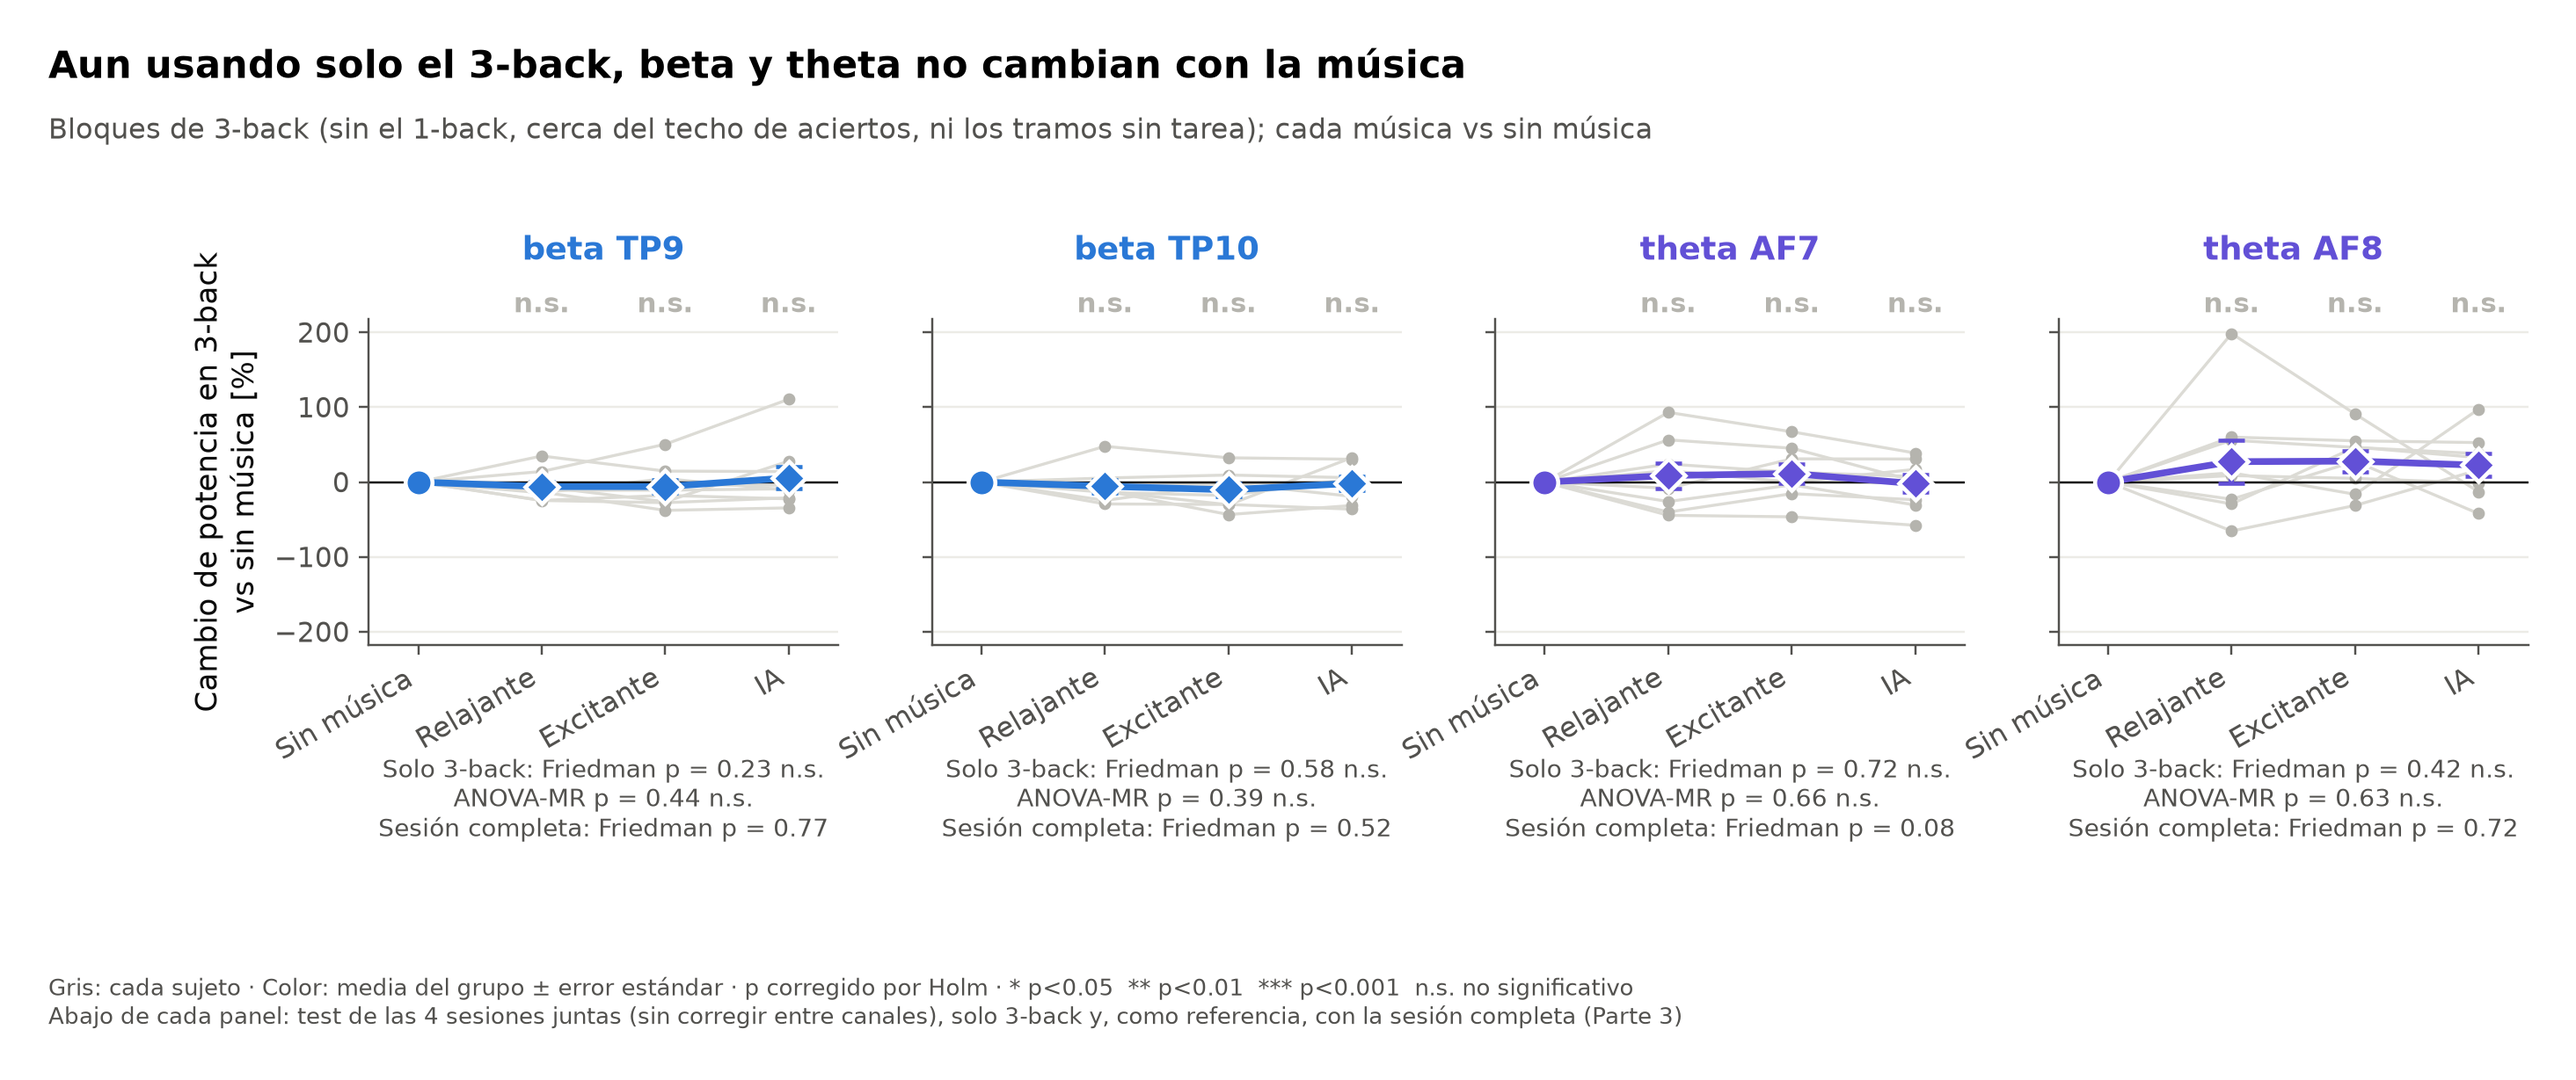
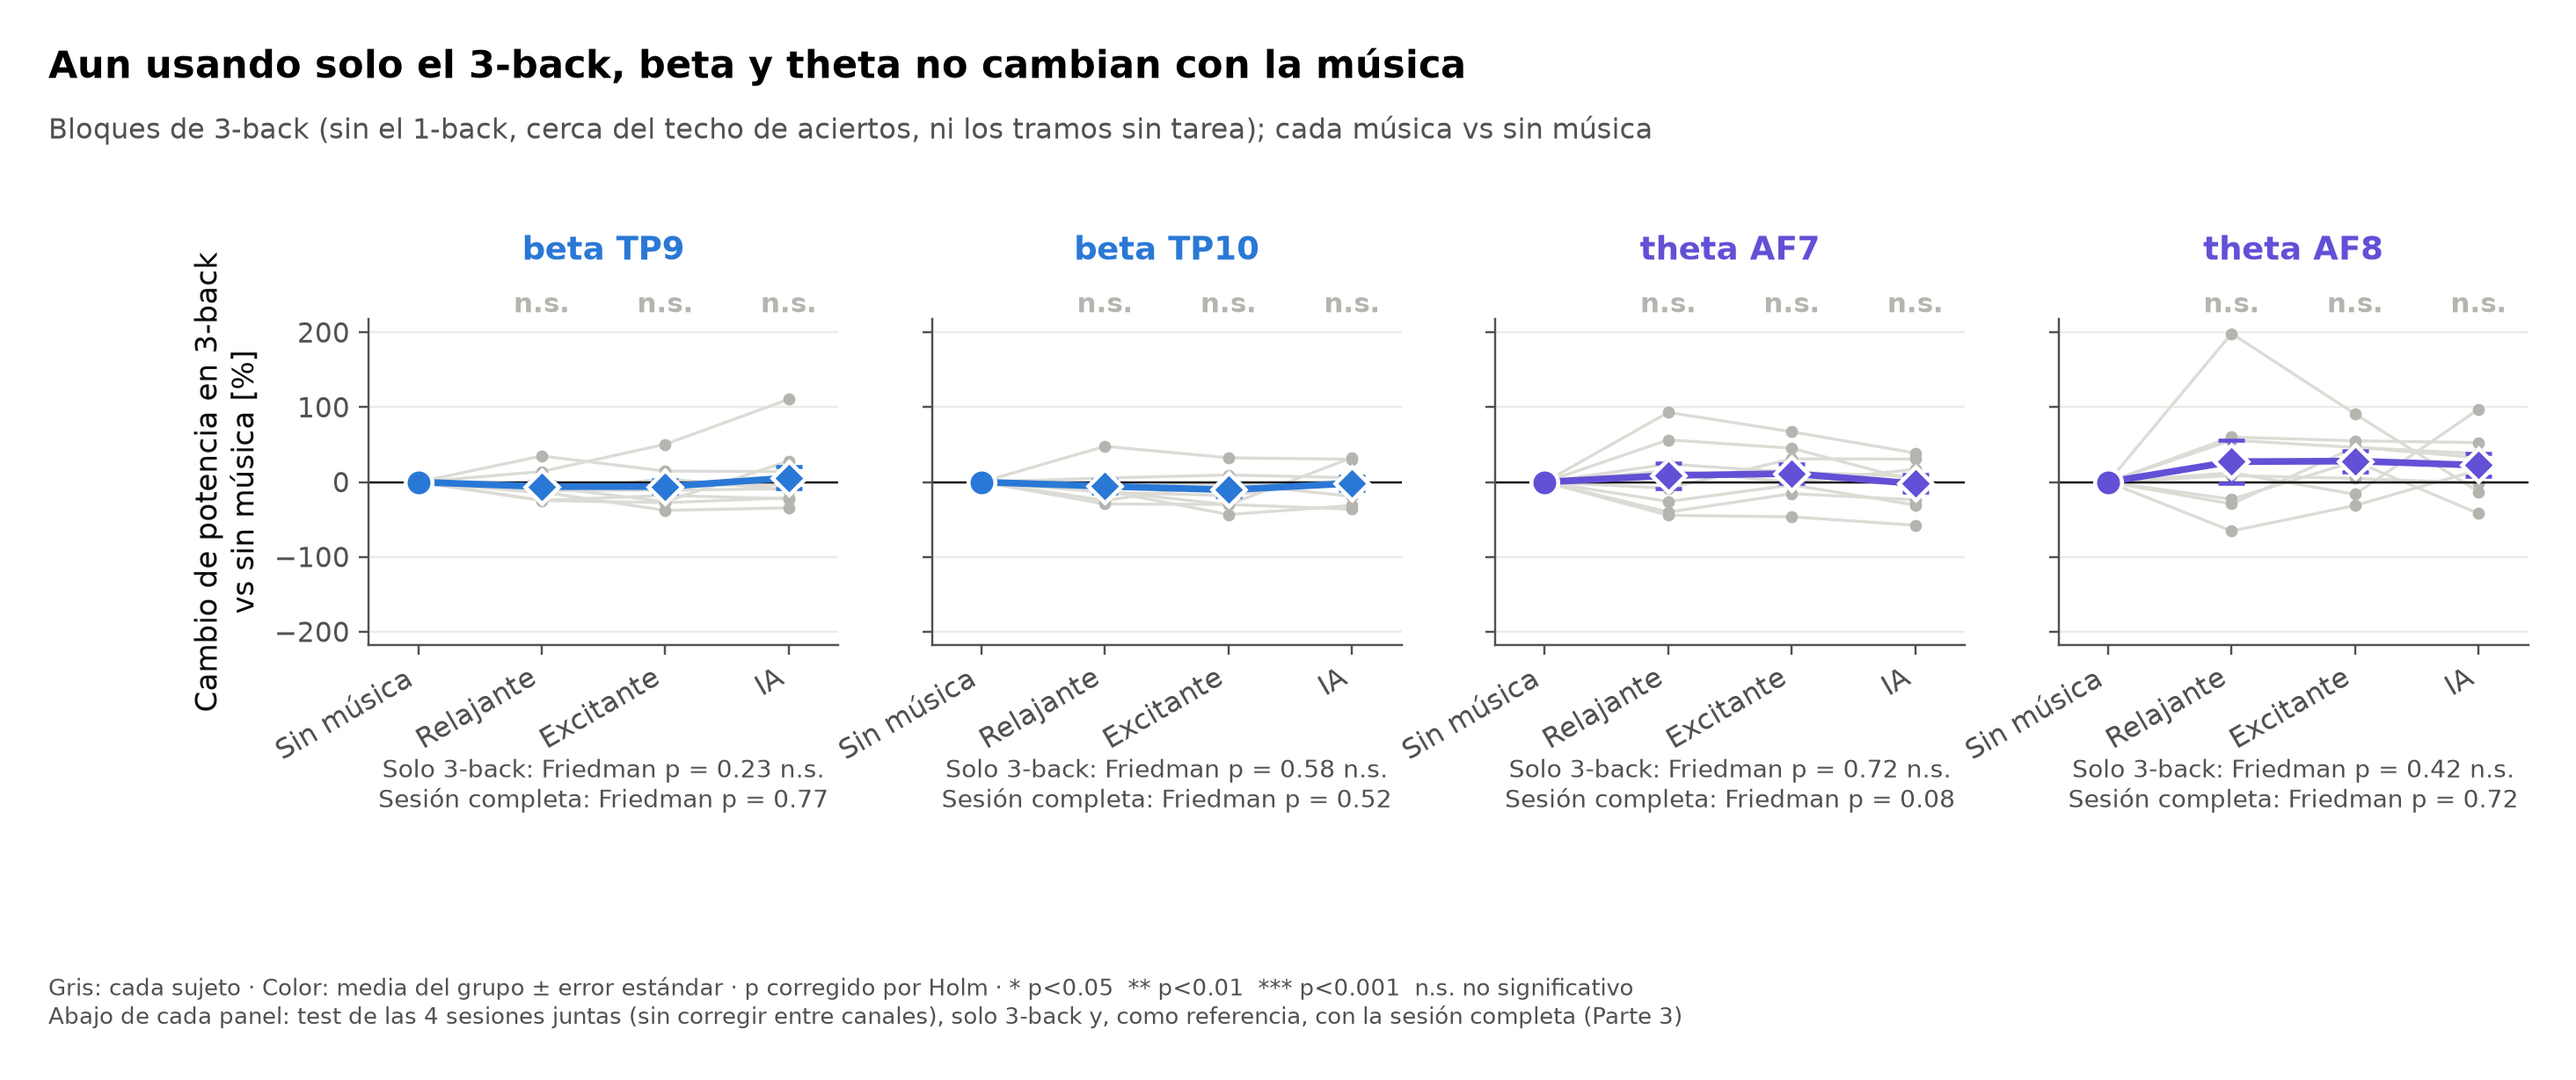
otro grafico

diff --git a/9.graficos_estadisticos.py b/9.graficos_estadisticos.py
@@ -345,7 +345,7 @@ for i, (ax, (banda, canal)) in enumerate(zip(axs, marcadores)):
     p_frc = p_global(P3, banda, canal, "p_friedman_4_sesiones")
     ax.text(0.5, -0.34,
             f"Solo 3-back: Friedman p = {p_fr3:.2f} {estrellas(p_fr3)}\n"
-            f"ANOVA-MR p = {p_rm3:.2f} {estrellas(p_rm3)}\n"
+            #f"ANOVA-MR p = {p_rm3:.2f} {estrellas(p_rm3)}\n"
             f"Sesión completa: Friedman p = {p_frc:.2f}",
             transform=ax.transAxes, ha="center", va="top", fontsize=9, color=TINTA_2)
     ax.set_title(f"{banda} {canal}", fontsize=12, fontweight="bold", color=COLOR_BANDA[banda], pad=22)
